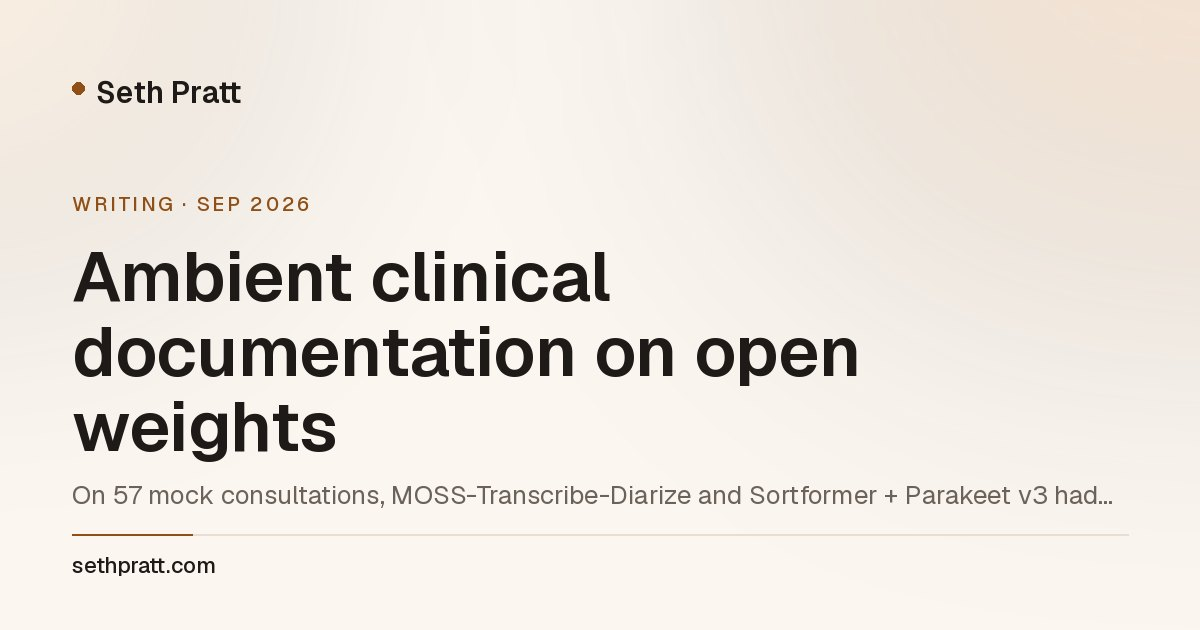
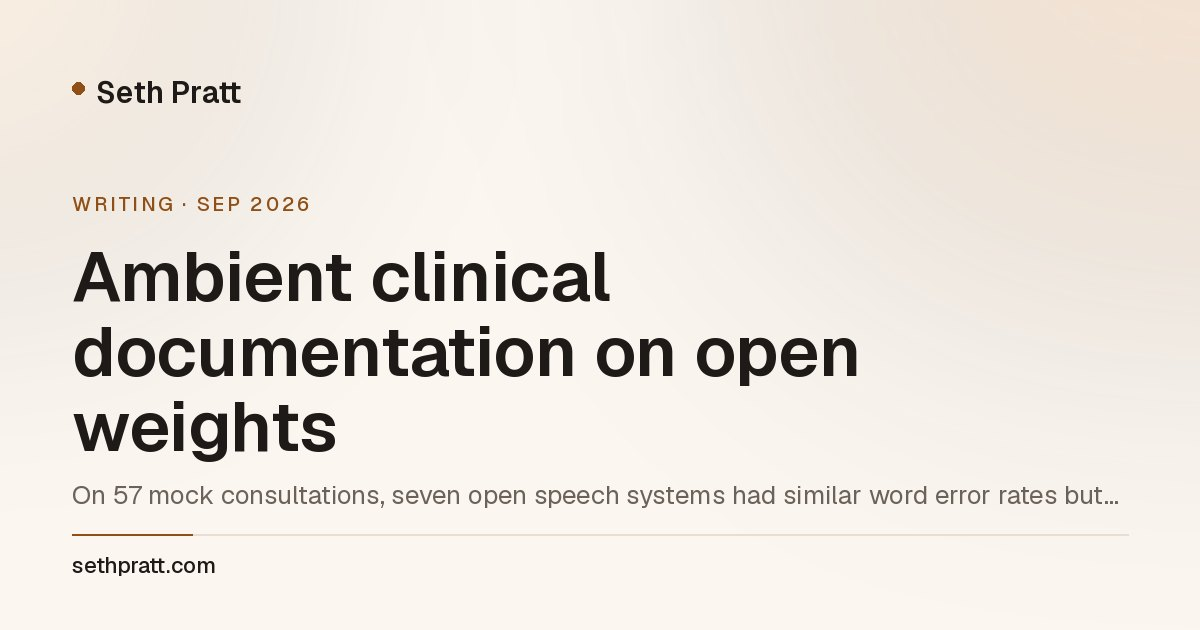
Remove NVIDIA model references (#11)

Changed region(s): [[0.3083, 0.754, 0.925, 0.8143]]

diff --git a/lib/editorial.ts b/lib/editorial.ts
@@ -970,7 +970,7 @@ export const notes: Editorial[] = [
   ]
 },
 {
-  slug: 'ambient-clinical-documentation-open-weights', type: 'note', work: { start: '2026-09-11', end: '2026-09-16' }, topics: ["Evals"], findings: ["On 57 mock consultations, MOSS-Transcribe-Diarize and Sortformer + Parakeet v3 had similar word error rates (10.3%, 11.2%) but medical-term miss rates of 8.4% and 15.1%.", "One epoch of LoRA fine-tuning lifted ROUGE-L by 8.6 points, while speaker misattributions doubled to tripled and recall of follow-up instructions went down.", "On three held-out splits, the claim-level verifier recalled 98.7 to 99.6 percent of deliberately injected errors; how many of a model’s own mistakes it catches is unmeasured."],
+  slug: 'ambient-clinical-documentation-open-weights', type: 'note', work: { start: '2026-09-11', end: '2026-09-16' }, topics: ["Evals"], findings: ["On 57 mock consultations, seven open speech systems had similar word error rates but different medical-term miss rates; the best, MOSS-Transcribe-Diarize 0.9B, missed 8.4% of medical terms at a 10.3% word error rate.", "One epoch of LoRA fine-tuning lifted ROUGE-L by 8.6 points, while speaker misattributions doubled to tripled and recall of follow-up instructions went down.", "On three held-out splits, the claim-level verifier recalled 98.7 to 99.6 percent of deliberately injected errors; how many of a model’s own mistakes it catches is unmeasured."],
   title: 'Ambient clinical documentation on open weights', summary: 'What seven speech recognizers, a LoRA fine-tune and a claim-level verifier did on open mock consultations, and where fluency metrics hide the damage.',
   seoTitle: 'Ambient Clinical Scribe Evaluation — Open Data, ASR, LoRA & a Verifier', category: 'Field note 07 / Clinical speech-to-note',
   description: 'Seth Pratt’s scribe-bench study: seven ASR systems, note generation, LoRA fine-tuning and a claim-level verifier evaluated on PriMock57 and ACI-Bench with clinician-defined scorers.',
@@ -979,21 +979,15 @@ export const notes: Editorial[] = [
   facts: [{ label: 'Data', value: 'PriMock57 & ACI-Bench (mock consultations, CC BY 4.0)' }, { label: 'Systems', value: '7 ASR stacks · Qwen3.8-27B notes · LoRA · verifier' }, { label: 'Status', value: 'Non-commercial study, code and paper draft public' }],
   workflowLabel: 'The study pipeline · each stage scored on held-out splits before the next one used its output',
   workflow: ['Transcribe & diarize', 'Score the transcript', 'Generate the note', 'Verify each claim', 'Accept only what held on test'],
-  prepared: '2026-09-16', updated: '2026-10-09',
+  prepared: '2026-09-16', updated: '2026-10-20',
   sections: [
     { id: 'question', title: 'A pipeline, not a model', paragraphs: [
       'The commercial products in this space are judged on the note. But the note inherits every error made upstream: a dropped medication name in transcription, a line attributed to the doctor that the patient said, a follow-up instruction that never made it into the summary. I built scribe-bench to measure those stages separately, on data anyone can download, with open-weight models on my own hardware.',
       'Everything in the study is a mock or synthetic consultation: PriMock57 (57 recorded mock primary-care visits with transcripts and notes) and ACI-Bench, MTS-Dialog and MedSynth for note generation and fine-tuning. No real patients, no proprietary data, and no claim that the results transfer to a clinic. The point was the evaluation method.'
     ] },
     { id: 'asr', title: 'Transcription: the medical-term miss rate is its own number', paragraphs: [
-      'Seven speech-recognition stacks ran on the 57 PriMock57 consultations, scored on word error rate, the miss rate on medical terms specifically, diarization error where the system produced speaker turns, and the share of words attributed to the wrong speaker. Word error rate alone would rank the top three systems as roughly equal. The medical-term column does not.',
-      'The last row is a reminder that a capable model in the wrong mode is a different system: the same family that transcribes competently as a dedicated recognizer produced an 88 percent diarization error when prompted as a chat model.'
-    ], table: { caption: 'PriMock57, 57 consultations · from the scribe-bench results file, September 2026', headers: ['System', 'Word error rate', 'Medical-term miss', 'Diarization error', 'Misattributed words'], rows: [
-      ['MOSS-Transcribe-Diarize 0.9B', '10.3%', '8.4%', '11.4%', '1.0%'],
-      ['Sortformer + Parakeet v3', '11.2%', '15.1%', '11.1%', '1.3%'],
-      ['Canary-Qwen 2.5B', '11.6%', '9.4%', 'no diarization', 'not applicable'],
-      ['Nemotron Nano Omni, chat prompt', '27.2%', '15.7%', '88%', '32%']
-    ] } },
+      'Seven speech-recognition stacks ran on the 57 PriMock57 consultations, scored on word error rate, the miss rate on medical terms specifically, diarization error where the system produced speaker turns, and the share of words attributed to the wrong speaker. Word error rate alone would rank the top systems as roughly equal; the medical-term miss rate does not. The best, MOSS-Transcribe-Diarize 0.9B, had a 10.3% word error rate, an 8.4% medical-term miss rate, an 11.4% diarization error and 1.0% misattributed words.'
+    ] },
     { id: 'notes', title: 'Note generation: the fine-tune that looked like an improvement', paragraphs: [
       'Qwen3.8-27B wrote visit notes from three transcript sources: the human transcript, the raw ASR output, and a corrected ASR output. The gap between the first and the second is the ceiling on what better transcription buys the note.',
       'One epoch of LoRA fine-tuning on open transcript-and-note pairs lifted ROUGE-L by 8.6 points on 120 ACI-Bench encounters, which is the kind of result that gets announced. The clinician-defined scorers told the other half: speaker misattributions doubled to tripled, and recall of follow-up instructions went down. The tuned model had learned the shape of a note faster than the discipline of one.',
@@ -1134,6 +1128,7 @@ export const notes: Editorial[] = [
   workflowLabel: 'How each fix was accepted · the same automated run, plus a capture of the app’s connections',
   workflow: ['Clean profile', 'Drive every screen', 'Capture connections', 'Fix', 'Re-run and re-capture'],
   prepared: '2026-09-24',
+  updated: '2026-10-20',
   sections: [
     { id: 'test', title: 'The test: a new user and a packet-level witness', paragraphs: [
       'The harness drives the real desktop app through WebDriver: it installs, chats, turns on private search, creates an encrypted chat and restarts, taking a screenshot at each step. While the app searched, a root-level socket capture listed every remote endpoint it had open, and each address was looked up in the Tor Project’s relay directory.',
@@ -1155,14 +1150,13 @@ export const notes: Editorial[] = [
     { id: 'models', title: 'Choosing the model with the app’s own benchmark', paragraphs: [
       'The benchmark runs 32 cases through the app’s real prompts, each model’s own chat template and the same inference loop: answering from given sources with correct citations, saying so when the sources do not contain the answer, conflicting sources, a prompt-injection trap inside a source, a Spanish source, formatting and date arithmetic. Every model ran twice with fixed seeds, and every failure was read by hand. Several were the scorer’s fault rather than the model’s, and the scorer was fixed before any ranking was trusted.',
       'The table is not the whole decision. Small models do well on grounded answering, which is what this benchmark measures, while larger models are far ahead on general knowledge and reasoning. So setup recommends Qwen3.8 27B wherever it fits, a 2-bit version of it on 12 to 16 GB graphics cards, and the small Gemma 4 E4B only on 8 GB machines.'
-    ], table: { caption: 'Grounded-answer benchmark · 32 cases × 2 seeds · 8 of the 14 models tested · one RTX PRO 6000', headers: ['Model', 'Score', 'Tokens/s'], rows: [
+    ], table: { caption: 'Grounded-answer benchmark · 32 cases × 2 seeds · 7 of the 14 models tested · one RTX PRO 6000', headers: ['Model', 'Score', 'Tokens/s'], rows: [
       ['Gemma 4 E4B', '98.4%', '223'],
       ['Qwen3.8 27B', '96.9%', '56'],
       ['Qwen3.6 35B-A3B', '96.9%', '182'],
       ['Qwen3.8 27B, 2-bit', '93.8%', '75'],
       ['Qwen3.5 9B', '93.8%', '163'],
       ['Ornith 1.5 35B-A3B', '92.2%', '184'],
-      ['Nemotron 3.5 Lightning 30B-A3B', '84.4%', '248'],
       ['MiniCPM5 2B', '75.0%', '308']
     ] } },
     { id: 'search', title: 'Which search engines answer over Tor', paragraphs: [

diff --git a/lib/cases.ts b/lib/cases.ts
@@ -34,7 +34,7 @@ export const caseStudies: CaseStudy[] = [
     published: '2026-09-16', readMinutes: 9,
     findings: [
       'A one-epoch LoRA raised ROUGE-L by 8.6 points [7.2, 10.0] on 120 ACI-Bench encounters, while misattributions rose by 0.11 per note and follow-up recall fell from 97.4% to 92.9%.',
-      'Across seven open speech recognizers, word error rate stayed within 10.3–11.8% while medical-term miss ranged from 8.4% to 15.1%. The split followed decoder type, not overall accuracy.',
+      'Across seven open speech recognizers, word error rate alone hid how many medical terms each one dropped. The best, MOSS-TD 0.9B, missed 8.4% of medical terms [7.1, 9.7] at a 10.3% word error rate.',
       'An overnight search over 131 pipeline variants reported +4.2 on held-out visits. On the writer’s official weights the gain was +1.3 [−3.8, +6.2], and plan recall became a measurable loss.',
       'A claim-level verifier caught 98.7–99.6% of deliberately injected errors across three splits (2,764 claims), measured on synthetic corruptions only.',
     ],
@@ -58,16 +58,7 @@ export const caseStudies: CaseStudy[] = [
         { kind: 'p', text: 'Every comparison is a paired bootstrap over encounters with a 95% interval, so a difference counts only when its interval excludes zero. The verifier is tested by injecting known errors into otherwise correct notes: negations, changed numbers, swapped drugs, fabricated findings and third-party leaks.' },
       ] },
       { id: 'speech', title: 'Speech recognition: same accuracy, different terms', blocks: [
-        { kind: 'p', text: 'Word error rate would rank the usable recognizers as nearly equal. Medical-term miss does not: the two language-model decoders lose far fewer terms than the transducer decoders, and the intervals do not overlap. Running the streaming model offline on the whole recording changes nothing, so this is the decoder, not latency.' },
-        { kind: 'table', caption: 'Transcript layer, 57 PriMock57 recordings', note: 'Term miss over 1,741 lexicon occurrences with binomial 95% CI; DER with a 250 ms collar. From the paper draft, Table 1.', headers: ['System', 'Decoder', 'WER %', 'Term miss %', 'DER %'], rows: [
-          ['MOSS-TD 0.9B', 'LLM', '10.3', '8.4 [7.1, 9.7]', '11.4'],
-          ['Canary-Qwen 2.5B', 'LLM', '11.6', '9.4 [8.0, 10.8]', '—'],
-          ['Nemotron-3.5 streaming 0.6B', 'Transducer', '11.8', '12.5 [10.9, 14.0]', '—'],
-          ['Parakeet-TDT 0.6B v3', 'Transducer', '11.2', '15.1 [13.4, 16.8]', '—'],
-          ['Sortformer + Parakeet v3', 'Transducer', '11.2', '15.1', '11.1'],
-          ['Nano Omni 30B-A3B, as prompted', 'LLM', '27.2', '15.7', '88.3'],
-        ] },
-        { kind: 'p', text: 'Paired over recordings, MOSS-TD minus the streaming model is −3.9 points of term miss [−6.3, −1.7]; Canary-Qwen minus streaming is −2.6 [−4.8, −0.6] at unchanged word error rate. The last row measures one chat model as I prompted it, not the model’s best use. Complaint-tuned hotwords made word error rate slightly worse (+0.18 [+0.03, +0.33]).' },
+        { kind: 'p', text: 'Seven open speech recognizers transcribed the same 57 recordings. Word error rate would rank the usable ones as nearly equal; the share of medical terms they missed did not, so for a scribe the term-miss rate is the number to watch. The best, MOSS-TD 0.9B, had a 10.3% word error rate, missed 8.4% of 1,741 lexicon terms [7.1, 9.7] and had an 11.4% diarization error with a 250 ms collar.' },
       ] },
       { id: 'finetune', title: 'The fine-tune that won every overlap metric', blocks: [
         { kind: 'p', text: 'One epoch of LoRA lifted ROUGE-L by 8.6 points, the kind of result that gets announced. Judged on the clinician dimensions, the same notes got worse: more claims credited to the wrong speaker, and fewer follow-up instructions carried into the note. Every interval excludes zero.' },
